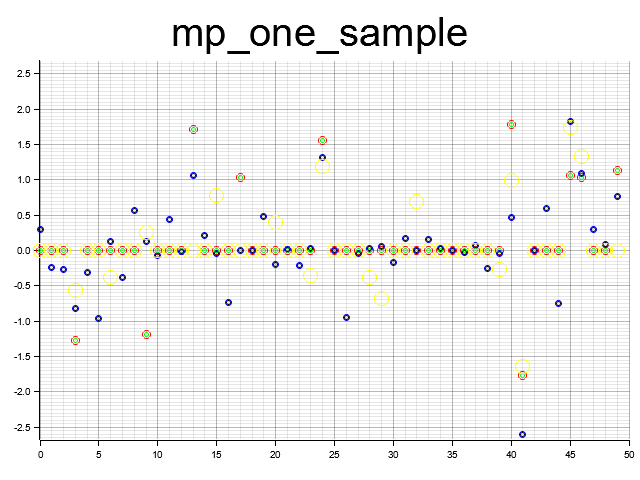
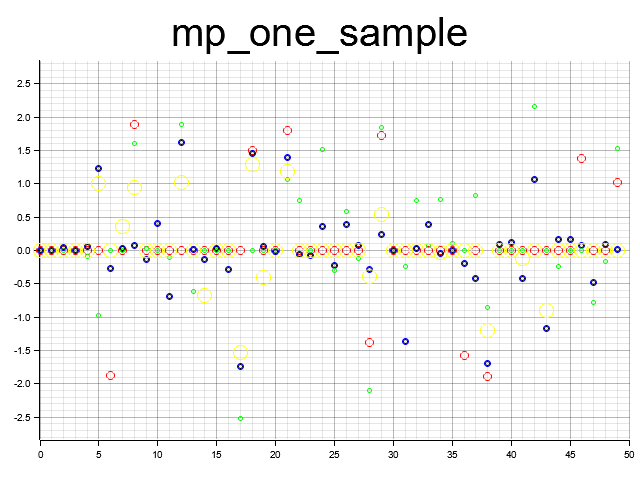
ista initialization value is 0.

Changed region(s): [[0.0312, 0.125, 1.0, 0.9062]]

diff --git a/src/lasso_alg/ista.rs b/src/lasso_alg/ista.rs
@@ -29,7 +29,7 @@ impl LassoAlg for LassoIsta {
         }
 
         //initialization
-        let mut x = mat.t().dot(y);
+        let mut x = ArrayBase::zeros(mat.shape()[1]);
         let mut prev_x;
         let lipshitz = matrix_l2(&(mat.t().dot(mat))) / lambda;
 

diff --git a/src/lasso_alg/fista.rs b/src/lasso_alg/fista.rs
@@ -29,7 +29,7 @@ impl LassoAlg for LassoFista {
         }
 
         //initialization
-        let mut x = mat.t().dot(y);
+        let mut x = ArrayBase::zeros(mat.shape()[1]);
         let mut prev_x;
         let mut z = mat.t().dot(y);
         let mut prev_z;

diff --git a/src/lasso_alg/ista_lipshitz_search.rs b/src/lasso_alg/ista_lipshitz_search.rs
@@ -29,7 +29,7 @@ impl LassoAlg for LassoIstaLipshitzSearch {
         }
 
         //initialization
-        let mut x = mat.t().dot(y);
+        let mut x = ArrayBase::zeros(mat.shape()[1]);
         let mut prev_x;
         let mut lipshitz = 1.;
 
